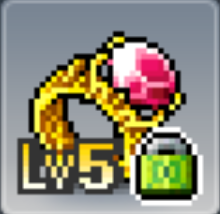
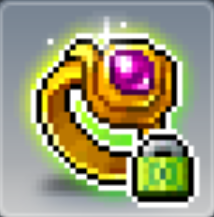
Add files via upload

diff --git a/index.html b/index.html
@@ -373,10 +373,10 @@
 
         /* 裝備資料庫 */
         const slotData = [
-            { id: "ring1", prefix: "A", name: "戒指 1", side: "side-left", cls: "s-ring1", h1: "① 入門or選用配置", t1: "黎明守護者天使戒指", h2: "② 當前主流配置", t2: "巨大的恐懼", h3: "③ 畢業裝備", t3: "根源的耳語" },
+            { id: "ring1", prefix: "A", name: "戒指 1", side: "side-left", cls: "s-ring1", h1: "① 入門or選用配置", t1: "黎明守護者天使戒指", h2: "② 當前主流配置", t2: "巨大的恐懼", h3: "③ 畢業裝備", t3: "無其他推薦" },
             { id: "pendant1", prefix: "B", name: "戒指 2", side: "side-left", cls: "s-pendant1", h1: "① 入門or選用配置", t1: "屬性的戒指", h2: "② 當前主流配置", t2: "天上的氣息", h3: "③ 畢業裝備", t3: "無其他推薦" },
-            { id: "ring2", prefix: "C", name: "戒指 3", side: "side-left", cls: "s-ring2", h1: "① 塔戒擇一選用(搭配切換技能)", t1: "規範戒指(塔戒)", h2: "② 塔戒擇一選用(搭配切換技能)", t2: "永續戒指(塔戒)", h3: "③ 未來展望(改版)", t3: "恍惚的噩夢(未出)" },
-            { id: "ring3", prefix: "D", name: "戒指 4", side: "side-left", cls: "s-ring3", h1: "① 入門過渡配置", t1: "強力的魔性戒指", h2: "② 當前主流頂配", t2: "頂級培羅德戒指 強化+30", h3: "③ 畢業裝備", t3: "無其他推薦" },
+            { id: "ring2", prefix: "C", name: "戒指 3", side: "side-left", cls: "s-ring2", h1: "① 塔戒擇一選用(搭配切換可裝備另一顆塔戒)", t1: "規範戒指or永續戒指", h2: "② 套裝搭配首選", t2: "頂級培羅德戒指 強化+30", h3: "③ 未來展望(改版)", t3: "恍惚的噩夢(未出)" },
+            { id: "ring3", prefix: "D", name: "戒指 4", side: "side-left", cls: "s-ring3", h1: "① 入門過渡配置", t1: "強力的魔性戒指", h2: "② 當前主流頂配 1", t2: "頂級培羅德戒指 強化+30", h3: "③ 當前主流頂配 2", t3: "根源的耳語" },
             { id: "belt", prefix: "E", name: "腰帶", side: "side-left", cls: "s-belt", h1: "① 入門過渡配置", t1: "頂級培羅德腰帶", h2: "② 當前主流/畢業裝備", t2: "夢幻的腰帶", h3: "③ 畢業裝備", t3: "無其他推薦" },
             { id: "pocket", prefix: "F", name: "臉飾", side: "side-left", cls: "s-pocket", h1: "① 入門or選用配置", t1: "暮光印記", h2: "② 當前主流配置", t2: "口紅控制器標誌", h3: "③ 未來展望", t3: "傲慢的原罪(未出)" },
             { id: "face", prefix: "G", name: "眼飾", side: "side-left", cls: "s-face", h1: "① 當前主流配置", t1: "附有魔力的眼罩", h2: "② 未來展望", t2: "飢餓血怨(未出)", h3: "③ 畢業裝備", t3: "無其他推薦" },